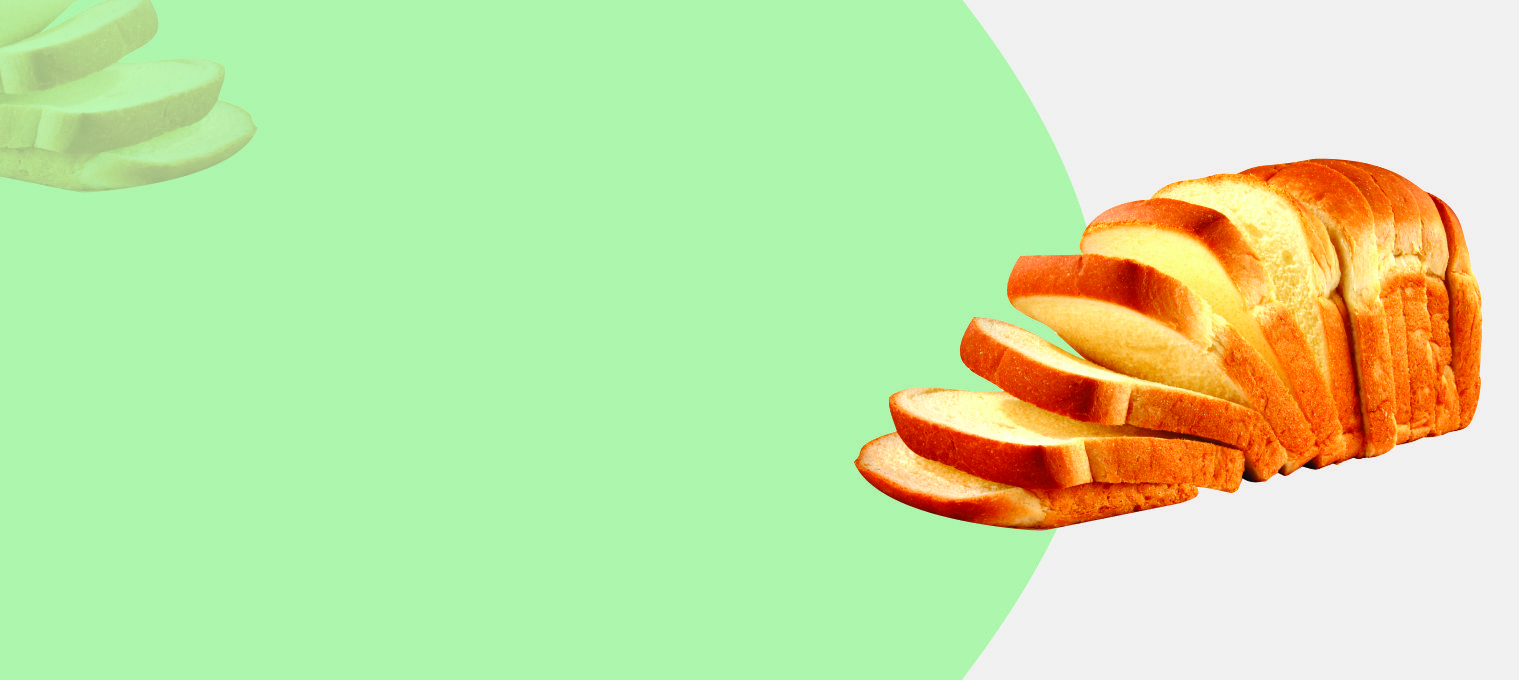
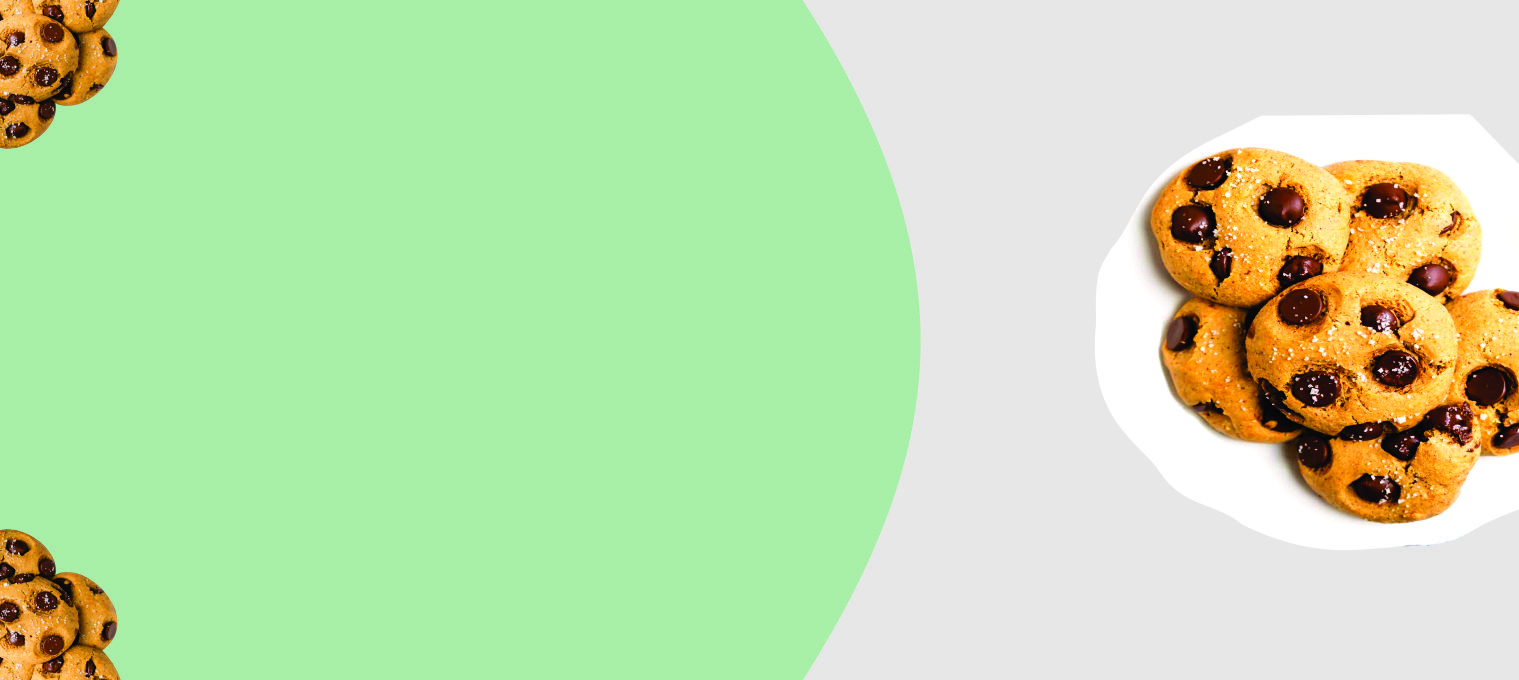
Added and Updated slider images

diff --git a/resources/views/layouts/slider.blade.php b/resources/views/layouts/slider.blade.php
@@ -214,7 +214,7 @@
               <!-- SLIDE 3 -->
               <li data-index="rs-3" data-transition="slidingoverlayhorizontal" data-slotamount="default" data-easein="default" data-easeout="default" data-masterspeed="default" data-thumb="http://placehold.it/1920x680" data-rotate="0"  data-fstransition="fade" data-fsmasterspeed="1500" data-fsslotamount="7" data-saveperformance="off" data-title="Make an Impact">
                 <!-- MAIN IMAGE -->
-                <img src="http://placehold.it/1920x680" alt="" data-bgposition="center center" data-bgfit="cover" data-bgrepeat="no-repeat" data-bgparallax="10" class="rev-slidebg" data-no-retina>
+                <img src="/images/third-slider.jpg" alt="" data-bgposition="center center" data-bgfit="cover" data-bgrepeat="no-repeat" data-bgparallax="10" class="rev-slidebg" data-no-retina>
                 <!-- LAYERS -->
                 <!-- LAYER NR. 1 -->
                 <div class="tp-caption tp-shape tp-shapewrapper tp-resizeme rs-parallaxlevel-0" 
@@ -230,7 +230,7 @@
                   data-start="1000" 
                   data-basealign="slide" 
                   data-responsive_offset="on" 
-                  style="z-index: 5;background-color:rgba(0, 0, 0, 0.25);border-color:rgba(0, 0, 0, 1.00);"> 
+                  style="z-index: 5;background-color:rgba(0, 0, 0, 0);border-color:rgba(0, 0, 0, 1.00);"> 
                 </div>
                 <!-- LAYER NR. 2 -->
                 <div class="tp-caption tp-resizeme text-white rs-parallaxlevel-0" 
